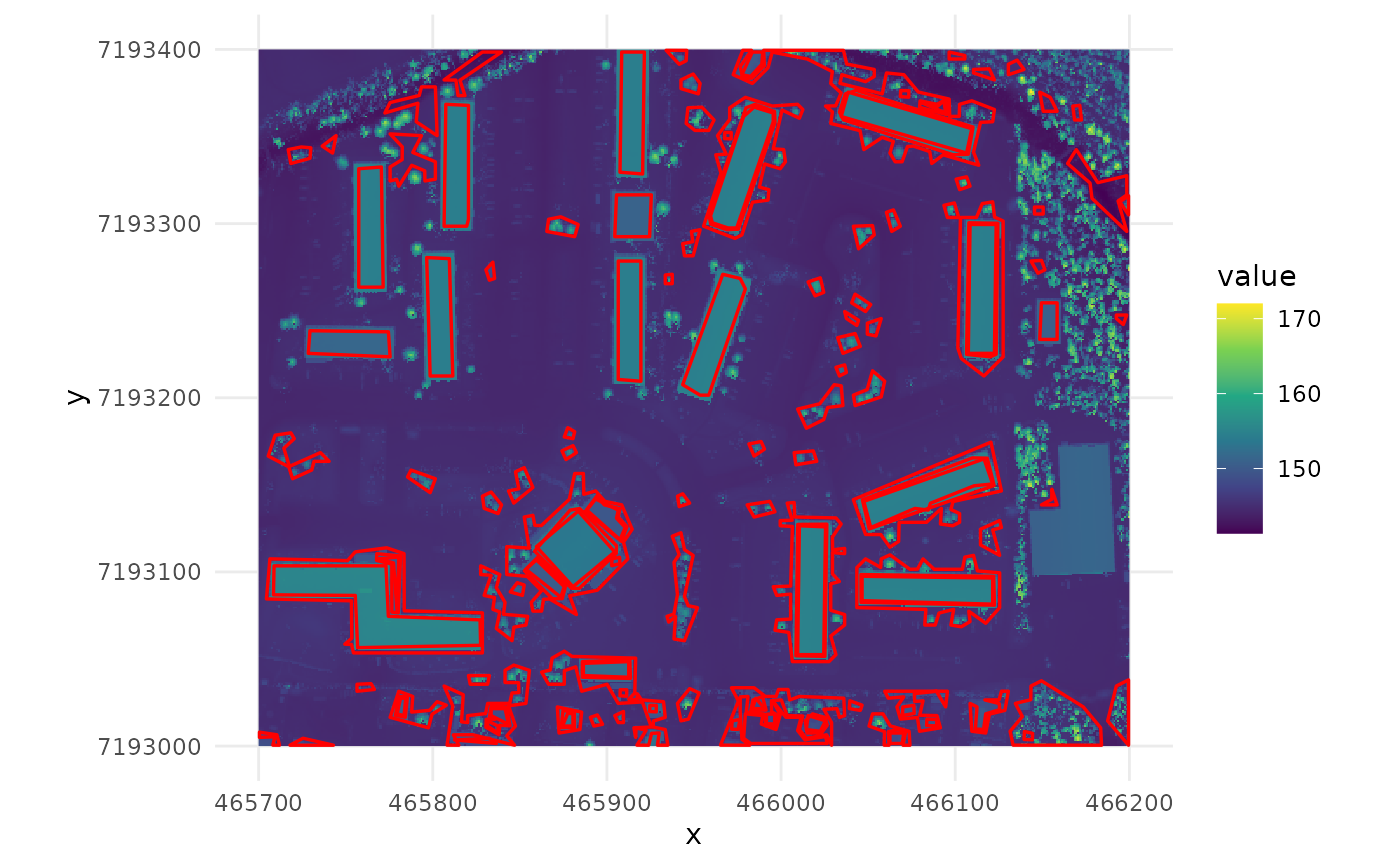
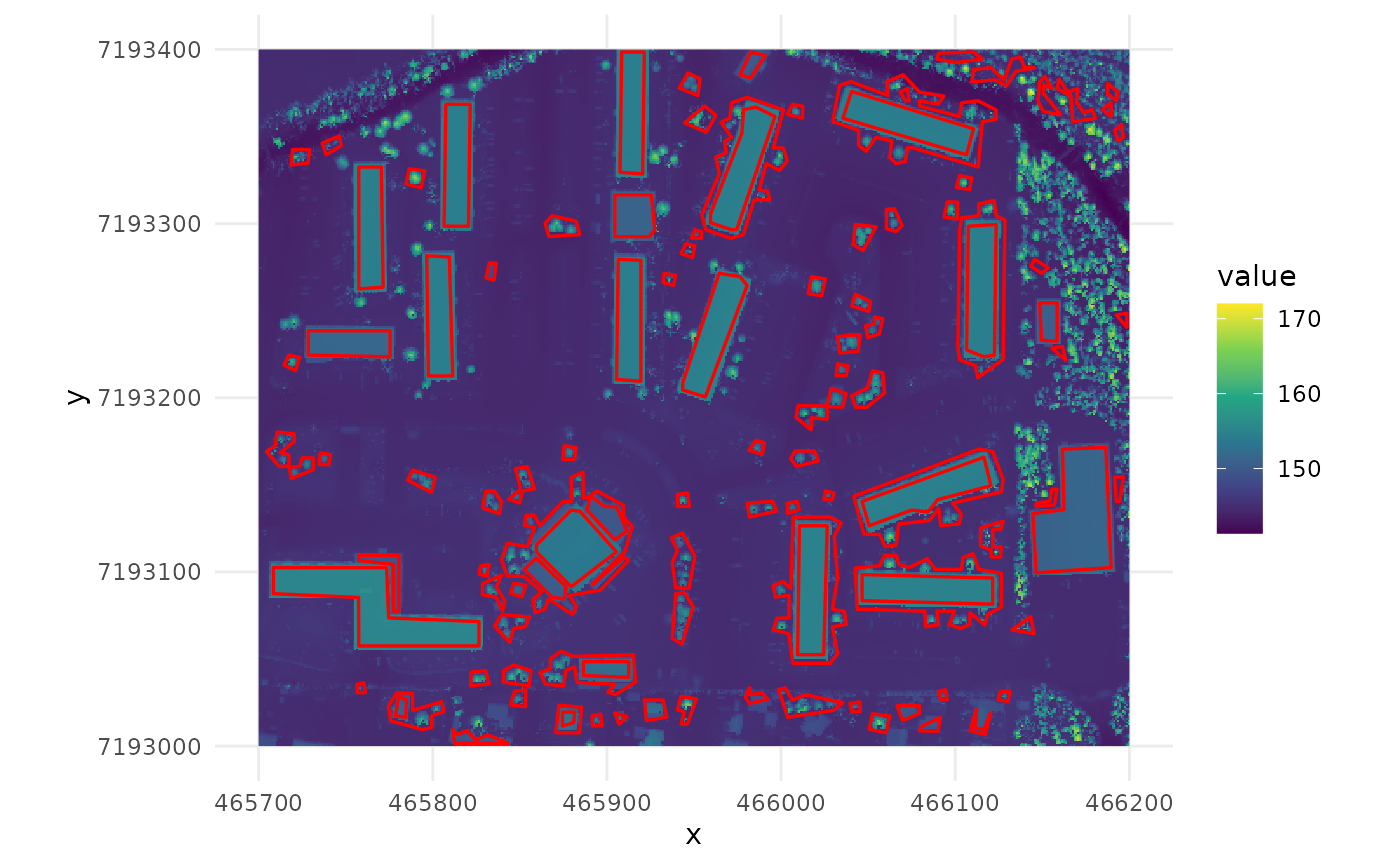
Deploying to gh-pages from @ jashonnew/rasterpolygonizer@3e07e03f4794f7aa84753617e9969ce6f0c13ba0 🚀

diff --git a/articles/workflow_building_polygons.html b/articles/workflow_building_polygons.html
@@ -114,7 +114,7 @@
 <span>  <span class="fu"><a href="https://ggplot2.tidyverse.org/reference/labs.html" class="external-link">labs</a></span><span class="op">(</span>title <span class="op">=</span> <span class="st">"Filled ground raster"</span><span class="op">)</span></span></code></pre></div>
 <p><img src="workflow_building_polygons_files/figure-html/unnamed-chunk-1-2.png" class="r-plt" alt="" width="700"></p>
 <div class="sourceCode" id="cb3"><pre class="downlit sourceCode r">
-<code class="sourceCode R"><span><span class="va">edges</span> <span class="op">&lt;-</span> <span class="fu"><a href="../reference/extract_building_edges_to_polygons.html">extract_building_edges_to_polygons</a></span><span class="op">(</span><span class="va">r_filled</span>, thr_prob <span class="op">=</span> <span class="fl">.75</span><span class="op">)</span></span>
+<code class="sourceCode R"><span><span class="va">edges</span> <span class="op">&lt;-</span> <span class="fu"><a href="../reference/extract_building_edges_to_polygons.html">extract_building_edges_to_polygons</a></span><span class="op">(</span><span class="va">r_filled</span>, thr_prob <span class="op">=</span> <span class="fl">.8</span><span class="op">)</span></span>
 <span></span>
 <span><span class="co"># Use raster extent as mask for this example</span></span>
 <span><span class="va">mask_poly</span> <span class="op">&lt;-</span> <span class="fu">terra</span><span class="fu">::</span><span class="fu"><a href="https://rspatial.github.io/terra/reference/as.polygons.html" class="external-link">as.polygons</a></span><span class="op">(</span><span class="va">r</span><span class="op">)</span></span>
@@ -125,7 +125,7 @@
 <span>  shrink_dist <span class="op">=</span> <span class="op">-</span><span class="fl">0.5</span>,</span>
 <span>  simplify_tol <span class="op">=</span> <span class="fl">2.5</span>,</span>
 <span>  min_area <span class="op">=</span> <span class="fl">19.99</span>,</span>
-<span>  max_area <span class="op">=</span> <span class="fl">2000</span></span>
+<span>  max_area <span class="op">=</span> <span class="fl">3000</span></span>
 <span><span class="op">)</span></span>
 <span></span>
 <span><span class="co"># Print summary</span></span>
@@ -152,6 +152,7 @@
 <div class="sourceCode" id="cb4"><pre class="downlit sourceCode r">
 <code class="sourceCode R"><span><span class="fu">terra</span><span class="fu">::</span><span class="fu"><a href="https://rspatial.github.io/terra/reference/crs.html" class="external-link">crs</a></span><span class="op">(</span><span class="va">r</span><span class="op">)</span> <span class="op">&lt;-</span> <span class="st">"EPSG:32606"</span></span>
 <span><span class="va">r_crs</span> <span class="op">&lt;-</span> <span class="fu">terra</span><span class="fu">::</span><span class="fu"><a href="https://rspatial.github.io/terra/reference/crs.html" class="external-link">crs</a></span><span class="op">(</span><span class="va">r</span><span class="op">)</span></span>
+<span><span class="fu">terra</span><span class="fu">::</span><span class="fu"><a href="https://rspatial.github.io/terra/reference/crs.html" class="external-link">crs</a></span><span class="op">(</span><span class="va">r_filled</span><span class="op">)</span> <span class="op">&lt;-</span> <span class="va">r_crs</span></span>
 <span></span>
 <span><span class="va">buildings_sf</span> <span class="op">&lt;-</span> <span class="fu">sf</span><span class="fu">::</span><span class="fu"><a href="https://r-spatial.github.io/sf/reference/st_crs.html" class="external-link">st_set_crs</a></span><span class="op">(</span><span class="va">buildings_sf</span>, <span class="va">r_crs</span><span class="op">)</span></span>
 <span><span class="va">b</span> <span class="op">&lt;-</span> <span class="fu">sf</span><span class="fu">::</span><span class="fu"><a href="https://r-spatial.github.io/sf/reference/st_crs.html" class="external-link">st_set_crs</a></span><span class="op">(</span><span class="va">b</span>, <span class="va">r_crs</span><span class="op">)</span></span>
@@ -179,6 +180,26 @@
 <span>  <span class="fu"><a href="https://ggplot2.tidyverse.org/reference/scale_viridis.html" class="external-link">scale_fill_viridis_c</a></span><span class="op">(</span>na.value <span class="op">=</span> <span class="st">"transparent"</span><span class="op">)</span> <span class="op">+</span></span>
 <span>  <span class="fu"><a href="https://ggplot2.tidyverse.org/reference/ggtheme.html" class="external-link">theme_minimal</a></span><span class="op">(</span><span class="op">)</span></span></code></pre></div>
 <p><img src="workflow_building_polygons_files/figure-html/unnamed-chunk-2-1.png" class="r-plt" alt="" width="700"></p>
+<div class="sourceCode" id="cb5"><pre class="downlit sourceCode r">
+<code class="sourceCode R"><span><span class="va">valid_polys</span> <span class="op">&lt;-</span> <span class="fu"><a href="../reference/remove_invalid_polys.html">remove_invalid_polys</a></span><span class="op">(</span><span class="va">filtered</span>, <span class="va">r_filled</span><span class="op">)</span></span>
+<span></span>
+<span><span class="va">r_df</span> <span class="op">&lt;-</span> <span class="fu"><a href="https://rspatial.github.io/terra/reference/as.data.frame.html" class="external-link">as.data.frame</a></span><span class="op">(</span><span class="va">r_filled</span>, xy <span class="op">=</span> <span class="cn">TRUE</span>, na.rm <span class="op">=</span> <span class="cn">TRUE</span><span class="op">)</span></span>
+<span><span class="fu"><a href="https://rspatial.github.io/terra/reference/names.html" class="external-link">names</a></span><span class="op">(</span><span class="va">r_df</span><span class="op">)</span><span class="op">[</span><span class="fl">3</span><span class="op">]</span> <span class="op">&lt;-</span> <span class="st">"value"</span></span>
+<span><span class="fu"><a href="https://ggplot2.tidyverse.org/reference/ggplot.html" class="external-link">ggplot</a></span><span class="op">(</span><span class="op">)</span> <span class="op">+</span></span>
+<span>  <span class="fu"><a href="https://ggplot2.tidyverse.org/reference/geom_tile.html" class="external-link">geom_raster</a></span><span class="op">(</span></span>
+<span>    data <span class="op">=</span> <span class="va">r_df</span>,</span>
+<span>    <span class="fu"><a href="https://ggplot2.tidyverse.org/reference/aes.html" class="external-link">aes</a></span><span class="op">(</span>x <span class="op">=</span> <span class="va">x</span>, y <span class="op">=</span> <span class="va">y</span>, fill <span class="op">=</span> <span class="va">value</span><span class="op">)</span></span>
+<span>  <span class="op">)</span> <span class="op">+</span></span>
+<span>  <span class="fu"><a href="https://ggplot2.tidyverse.org/reference/ggsf.html" class="external-link">geom_sf</a></span><span class="op">(</span></span>
+<span>    data <span class="op">=</span> <span class="va">valid_polys</span>,</span>
+<span>    fill <span class="op">=</span> <span class="cn">NA</span>,</span>
+<span>    color <span class="op">=</span> <span class="st">"red"</span>,</span>
+<span>    linewidth <span class="op">=</span> <span class="fl">0.6</span></span>
+<span>  <span class="op">)</span> <span class="op">+</span></span>
+<span>  <span class="fu"><a href="https://ggplot2.tidyverse.org/reference/ggsf.html" class="external-link">coord_sf</a></span><span class="op">(</span><span class="op">)</span> <span class="op">+</span></span>
+<span>  <span class="fu"><a href="https://ggplot2.tidyverse.org/reference/scale_viridis.html" class="external-link">scale_fill_viridis_c</a></span><span class="op">(</span>na.value <span class="op">=</span> <span class="st">"transparent"</span><span class="op">)</span> <span class="op">+</span></span>
+<span>  <span class="fu"><a href="https://ggplot2.tidyverse.org/reference/ggtheme.html" class="external-link">theme_minimal</a></span><span class="op">(</span><span class="op">)</span></span></code></pre></div>
+<p><img src="workflow_building_polygons_files/figure-html/unnamed-chunk-2-2.png" class="r-plt" alt="" width="700"></p>
   </div>
 
   <div class="col-md-3 hidden-xs hidden-sm" id="pkgdown-sidebar">

diff --git a/reference/remove_invalid_polys.html b/reference/remove_invalid_polys.html
@@ -1,0 +1,133 @@
+<!DOCTYPE html>
+<!-- Generated by pkgdown: do not edit by hand --><html lang="en"><head><meta http-equiv="Content-Type" content="text/html; charset=UTF-8"><meta charset="utf-8"><meta http-equiv="X-UA-Compatible" content="IE=edge"><meta name="viewport" content="width=device-width, initial-scale=1.0"><title>Remove invalid building polygons — remove_invalid_polys • rasterpolygonizer</title><!-- jquery --><script src="https://cdnjs.cloudflare.com/ajax/libs/jquery/3.7.1/jquery.min.js" integrity="sha512-v2CJ7UaYy4JwqLDIrZUI/4hqeoQieOmAZNXBeQyjo21dadnwR+8ZaIJVT8EE2iyI61OV8e6M8PP2/4hpQINQ/g==" crossorigin="anonymous" referrerpolicy="no-referrer"></script><!-- Bootstrap --><link rel="stylesheet" href="https://cdnjs.cloudflare.com/ajax/libs/twitter-bootstrap/3.4.1/css/bootstrap.min.css" integrity="sha256-bZLfwXAP04zRMK2BjiO8iu9pf4FbLqX6zitd+tIvLhE=" crossorigin="anonymous"><script src="https://cdnjs.cloudflare.com/ajax/libs/twitter-bootstrap/3.4.1/js/bootstrap.min.js" integrity="sha256-nuL8/2cJ5NDSSwnKD8VqreErSWHtnEP9E7AySL+1ev4=" crossorigin="anonymous"></script><!-- bootstrap-toc --><link rel="stylesheet" href="../bootstrap-toc.css"><script src="../bootstrap-toc.js"></script><!-- Font Awesome icons --><link rel="stylesheet" href="https://cdnjs.cloudflare.com/ajax/libs/font-awesome/5.12.1/css/all.min.css" integrity="sha256-mmgLkCYLUQbXn0B1SRqzHar6dCnv9oZFPEC1g1cwlkk=" crossorigin="anonymous"><link rel="stylesheet" href="https://cdnjs.cloudflare.com/ajax/libs/font-awesome/5.12.1/css/v4-shims.min.css" integrity="sha256-wZjR52fzng1pJHwx4aV2AO3yyTOXrcDW7jBpJtTwVxw=" crossorigin="anonymous"><!-- clipboard.js --><script src="https://cdnjs.cloudflare.com/ajax/libs/clipboard.js/2.0.6/clipboard.min.js" integrity="sha256-inc5kl9MA1hkeYUt+EC3BhlIgyp/2jDIyBLS6k3UxPI=" crossorigin="anonymous"></script><!-- headroom.js --><script src="https://cdnjs.cloudflare.com/ajax/libs/headroom/0.11.0/headroom.min.js" integrity="sha256-AsUX4SJE1+yuDu5+mAVzJbuYNPHj/WroHuZ8Ir/CkE0=" crossorigin="anonymous"></script><script src="https://cdnjs.cloudflare.com/ajax/libs/headroom/0.11.0/jQuery.headroom.min.js" integrity="sha256-ZX/yNShbjqsohH1k95liqY9Gd8uOiE1S4vZc+9KQ1K4=" crossorigin="anonymous"></script><!-- pkgdown --><link href="../pkgdown.css" rel="stylesheet"><script src="../pkgdown.js"></script><meta property="og:title" content="Remove invalid building polygons — remove_invalid_polys"><meta property="og:description" content="Cleans building polygons in two ordered steps:"><!-- mathjax --><script src="https://cdnjs.cloudflare.com/ajax/libs/mathjax/2.7.5/MathJax.js" integrity="sha256-nvJJv9wWKEm88qvoQl9ekL2J+k/RWIsaSScxxlsrv8k=" crossorigin="anonymous"></script><script src="https://cdnjs.cloudflare.com/ajax/libs/mathjax/2.7.5/config/TeX-AMS-MML_HTMLorMML.js" integrity="sha256-84DKXVJXs0/F8OTMzX4UR909+jtl4G7SPypPavF+GfA=" crossorigin="anonymous"></script><!--[if lt IE 9]>
+<script src="https://oss.maxcdn.com/html5shiv/3.7.3/html5shiv.min.js"></script>
+<script src="https://oss.maxcdn.com/respond/1.4.2/respond.min.js"></script>
+<![endif]--></head><body data-spy="scroll" data-target="#toc">
+
+
+    <div class="container template-reference-topic">
+      <header><div class="navbar navbar-default navbar-fixed-top" role="navigation">
+  <div class="container">
+    <div class="navbar-header">
+      <button type="button" class="navbar-toggle collapsed" data-toggle="collapse" data-target="#navbar" aria-expanded="false">
+        <span class="sr-only">Toggle navigation</span>
+        <span class="icon-bar"></span>
+        <span class="icon-bar"></span>
+        <span class="icon-bar"></span>
+      </button>
+      <span class="navbar-brand">
+        <a class="navbar-link" href="../index.html">rasterpolygonizer</a>
+        <span class="version label label-default" data-toggle="tooltip" data-placement="bottom" title="">0.0.0.9000</span>
+      </span>
+    </div>
+
+    <div id="navbar" class="navbar-collapse collapse">
+      <ul class="nav navbar-nav"><li>
+  <a href="../reference/index.html">Reference</a>
+</li>
+<li class="dropdown">
+  <a href="#" class="dropdown-toggle" data-toggle="dropdown" role="button" data-bs-toggle="dropdown" aria-expanded="false">
+    Articles
+
+    <span class="caret"></span>
+  </a>
+  <ul class="dropdown-menu" role="menu"><li>
+      <a href="../articles/workflow_building_polygons.html">Raster Polygonizer Workflow</a>
+    </li>
+  </ul></li>
+      </ul><ul class="nav navbar-nav navbar-right"></ul></div><!--/.nav-collapse -->
+  </div><!--/.container -->
+</div><!--/.navbar -->
+
+
+
+      </header><div class="row">
+  <div class="col-md-9 contents">
+    <div class="page-header">
+    <h1>Remove invalid building polygons</h1>
+
+    <div class="hidden name"><code>remove_invalid_polys.Rd</code></div>
+    </div>
+
+    <div class="ref-description">
+    <p>Cleans building polygons in two ordered steps:</p>
+    </div>
+
+    <div id="ref-usage">
+    <div class="sourceCode"><pre class="sourceCode r"><code><span><span class="fu">remove_invalid_polys</span><span class="op">(</span></span>
+<span>  <span class="va">polys</span>,</span>
+<span>  <span class="va">raster</span>,</span>
+<span>  buffer_dist <span class="op">=</span> <span class="fl">5</span>,</span>
+<span>  ground_tol <span class="op">=</span> <span class="fl">3</span>,</span>
+<span>  remove_nested <span class="op">=</span> <span class="cn">TRUE</span></span>
+<span><span class="op">)</span></span></code></pre></div>
+    </div>
+
+    <div id="arguments">
+    <h2>Arguments</h2>
+
+
+<dl><dt id="arg-polys">polys<a class="anchor" aria-label="anchor" href="#arg-polys"></a></dt>
+<dd><p>An <code>sf</code> polygon object.</p></dd>
+
+
+<dt id="arg-raster">raster<a class="anchor" aria-label="anchor" href="#arg-raster"></a></dt>
+<dd><p>A <code><a href="https://rspatial.github.io/terra/reference/SpatRaster-class.html" class="external-link">terra::SpatRaster</a></code> used to evaluate elevation values.</p></dd>
+
+
+<dt id="arg-buffer-dist">buffer_dist<a class="anchor" aria-label="anchor" href="#arg-buffer-dist"></a></dt>
+<dd><p>Numeric buffer distance (map units) used to create
+the exterior comparison ring. Default is 1.</p></dd>
+
+
+<dt id="arg-ground-tol">ground_tol<a class="anchor" aria-label="anchor" href="#arg-ground-tol"></a></dt>
+<dd><p>Numeric tolerance for difference between inside and
+outside minimum raster values. If the absolute difference is less than
+this value, the polygon is considered ground-contaminated. Default 0.25.</p></dd>
+
+
+<dt id="arg-remove-nested">remove_nested<a class="anchor" aria-label="anchor" href="#arg-remove-nested"></a></dt>
+<dd><p>Logical; if <code>TRUE</code>, polygons fully contained within
+other polygons are removed after ground filtering. Default <code>TRUE</code>.</p></dd>
+
+</dl></div>
+    <div id="value">
+    <h2>Value</h2>
+    <p>A cleaned <code>sf</code> polygon object.</p>
+    </div>
+    <div id="details">
+    <h2>Details</h2>
+
+<ol><li><p>Removes polygons that likely include ground values by comparing
+minimum raster values inside the polygon to those in a surrounding
+buffer ring.</p></li>
+<li><p>Removes polygons completely contained within other polygons.</p></li>
+</ol><p>The order is important: ground-contaminated polygons are removed first
+to avoid incorrectly discarding valid smaller polygons in favor of
+invalid larger ones.</p>
+    </div>
+
+  </div>
+  <div class="col-md-3 hidden-xs hidden-sm" id="pkgdown-sidebar">
+    <nav id="toc" data-toggle="toc" class="sticky-top"><h2 data-toc-skip>Contents</h2>
+    </nav></div>
+</div>
+
+
+      <footer><div class="copyright">
+  <p></p><p>Developed by Jashon Newlun.</p>
+</div>
+
+<div class="pkgdown">
+  <p></p><p>Site built with <a href="https://pkgdown.r-lib.org/" class="external-link">pkgdown</a> 2.2.0.</p>
+</div>
+
+      </footer></div>
+
+
+
+
+
+
+  </body></html>
+

diff --git a/reference/index.html b/reference/index.html
@@ -68,6 +68,10 @@
         </td>
         <td><p>Filter candidate polygons by ground truth containment</p></td>
       </tr><tr><td>
+          <p><code><a href="remove_invalid_polys.html">remove_invalid_polys()</a></code> </p>
+        </td>
+        <td><p>Remove invalid building polygons</p></td>
+      </tr><tr><td>
           <p><code><a href="roof_slope_RANSAC.html">roof_slope_RANSAC()</a></code> </p>
         </td>
         <td><p>Estimate Roof Slope and Aspect Using Robust RANSAC Plane Fitting</p></td>
